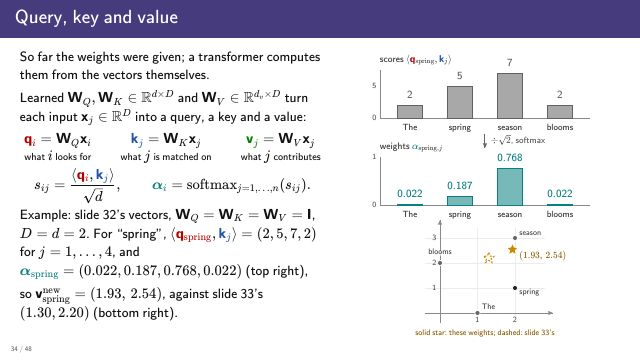
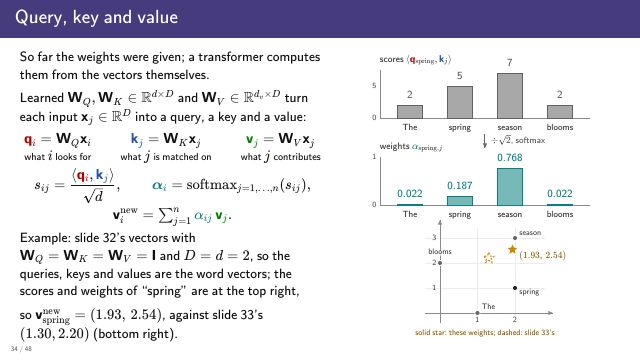
EPL slides: transformers deck updated (CBOW gradients as negative gradients in two cases, SGNS loss with ln(1 - sigma), PMI as the pair's term in the mutual information, the attention output line)

Changed region(s): [[0.0312, 0.5806, 0.5, 0.9472]]

diff --git a/docs/teaching/epl/slides/01-6-transformers/index.html b/docs/teaching/epl/slides/01-6-transformers/index.html
@@ -416,33 +416,26 @@ ul.plain li { margin: 0 0 6px; }
 <!-- 18 -->
 <section class="dense">
   <h2>Gradients of the CBOW loss</h2>
-  <column style="flex:1.3 1 0">
+  <column>
     <p class="opener">Training fits every vector by maximum likelihood, one blank at a time, with gradients from the chain rule.</p>
     <p style="margin-bottom:6px">For a blank with hidden word $w^*$, scores $z_w=\langle\bu_w,\bh\rangle$ and their softmax $p(w\mid\text{context})$ over $\cV$:</p>
     \[\cL=-\ln p(w^*\mid\text{context})=-z_{w^*}+\ln\sum_{w'\in\cV}e^{z_{w'}}.\]
-    <div pause data-fragment-index="1">
-      <p style="margin-bottom:6px">Its derivative with respect to a score is the error (Ch. 6), with $I(w=w^*)=1$ only for the hidden word:</p>
-      \[\begin{aligned}\frac{\partial\cL}{\partial z_w}&=-I(w=w^*)+\frac{e^{z_w}}{\sum_{w'}e^{z_{w'}}}\\&=\htmlClass{hl-err}{p(w\mid\text{context})-I(w=w^*)}.\end{aligned}\]
-    </div>
-    <div pause data-fragment-index="2">
-      <p style="margin-bottom:6px">Since $\partial z_w/\partial\bu_w=\bh$, the gradient is error times input:</p>
-      \[\nabla_{\bu_w}\cL=\big(p(w\mid\text{context})-I(w=w^*)\big)\,\bh.\]
-    </div>
-  </column>
-  <column>
-    <block title="Slide 16's blank, hidden word oranges">
-      <p>$\bh=(0.375,\,0.325,\,0.225)$; $p=0.541$ for oranges, $0.459$ for laptops; $\cL=-\ln0.541=0.614$.</p>
-      <p pause data-fragment-index="1">Errors: $0.541-1=-0.459$ for oranges, $0.459$ for laptops.</p>
-      <div pause data-fragment-index="2">
-        <p style="margin-bottom:4px">Output-vector gradients:</p>
-        \[\begin{aligned}\nabla_{\bu_{\text{oranges}}}\cL&=-0.459\,\bh\\&=(-0.172,\,-0.149,\,-0.103),\\\nabla_{\bu_{\text{laptops}}}\cL&=0.459\,\bh\\&=(0.172,\,0.149,\,0.103).\end{aligned}\]
+    <p>To make $\cL$ small, we want the hidden word's score $z_{w^*}$ large and the sum $\sum_{w'}e^{z_{w'}}$ small.</p>
+    <p pause data-fragment-index="1" style="margin-bottom:6px">The derivative of $\cL$ with respect to a score is the error (Ch. 6), and $\partial z_w/\partial\bu_w=\bh$, so:</p>
+    <div style="display:flex;justify-content:space-evenly;align-items:center">
+      <div pause data-fragment-index="1">
+        \[\frac{\partial\cL}{\partial z_w}=\htmlClass{hl-err}{\begin{cases}p(w\mid\text{context})-1,&w=w^*,\\p(w\mid\text{context}),&w\neq w^*,\end{cases}}\]
       </div>
-    </block>
+      <div pause data-fragment-index="2">
+        \[-\nabla_{\bu_w}\cL=\begin{cases}\big(1-p(w\mid\text{context})\big)\,\bh,&w=w^*,\\-p(w\mid\text{context})\,\bh,&w\neq w^*.\end{cases}\]
+      </div>
+    </div>
+    <p pause data-fragment-index="2">Example: in slide 16's blank, hidden word oranges, $-\nabla_{\bu_{\text{oranges}}}\cL=0.459\,\bh$ and $-\nabla_{\bu_{\text{laptops}}}\cL=-0.459\,\bh$.</p>
   </column>
   <narration>
-    <say>Training fits the vectors by maximum likelihood, one blank at a time. The loss of a blank is the negative log of the probability the model gives the hidden word. Written out, it is minus the hidden word's score plus the log of the softmax denominator, a sum over the whole vocabulary. On the right is the store sentence's blank from the last slide: the hidden word is oranges, and the model gives it a little over half of its probability.</say>
-    <say>Now differentiate with respect to one score. The first term gives minus one, for the hidden word only; the second gives that word's softmax probability. Their sum, the predicted probability minus the indicator of the hidden word, is <point to="err">the error</point>, as in softmax regression. In the example, oranges has a negative error, since the model gave it less than certainty, and laptops a positive error of the same size.</say>
-    <say>Each score depends on its own output vector only through an inner product with h, so the gradient for an output vector is its error times h: error times input. In the example the two gradients point in opposite directions along h, so a step against them moves the output vector of oranges toward h and that of laptops away from it.</say>
+    <say>Training fits the vectors by maximum likelihood, one blank at a time. The loss of a blank is the negative log of the probability the model gives the hidden word. Written out, it is minus the hidden word's score plus the log of the softmax denominator, a sum over the whole vocabulary. To make the loss small, we want the hidden word's score large and that sum small. In the store sentence's blank from slide 16, the hidden word is oranges, and the model gives it probability 0.541.</say>
+    <say>Now differentiate with respect to one score. The first term gives minus one, for the hidden word only; the second gives that word's softmax probability. Their sum is <point to="err">the error</point>, as in softmax regression: the predicted probability minus one for the hidden word, and the predicted probability itself for every other word. In that blank, oranges has the error 0.541 minus 1, or minus 0.459, since the model gave it less than certainty, and laptops the positive error 0.459.</say>
+    <say>Each score depends on its own output vector only through an inner product with h, so the gradient for an output vector is its error times h: error times input. Its negative is the direction in which a gradient step moves the vector. In that blank, the negative gradient for oranges points along h and the one for laptops against it, so a step moves the output vector of oranges toward h and that of laptops away from it.</say>
   </narration>
 </section>
 
@@ -453,11 +446,11 @@ ul.plain li { margin: 0 0 6px; }
     <p class="opener">The context vectors are learned by the same gradient descent, through their average $\bh=\frac1m\sum_{j=1}^m\bc_{w_j}$.</p>
     <div pause data-fragment-index="1">
       <p style="margin-bottom:6px">$\bh$ enters every score $z_w=\langle\bu_w,\bh\rangle$:</p>
-      \[\begin{aligned}\nabla_{\bh}\cL&=\sum_{w\in\cV}\big(p(w\mid\text{context})-I(w=w^*)\big)\,\bu_w\\&=\sum_{w\in\cV}p(w\mid\text{context})\,\bu_w-\bu_{w^*}.\end{aligned}\]
+      \[\begin{aligned}-\nabla_{\bh}\cL&=-\sum_{w\in\cV}\frac{\partial\cL}{\partial z_w}\,\bu_w\\&=\bu_{w^*}-\sum_{w\in\cV}p(w\mid\text{context})\,\bu_w.\end{aligned}\]
     </div>
     <div pause data-fragment-index="2">
       <p style="margin-bottom:6px">Each context word's vector gets $1/m$ of it:</p>
-      \[\nabla_{\bc_{w_j}}\cL=\tfrac1m\nabla_{\bh}\cL=\tfrac1m\big(\textstyle\sum_wp(w\mid\text{context})\,\bu_w-\bu_{w^*}\big).\]
+      \[-\nabla_{\bc_{w_j}}\cL=-\tfrac1m\nabla_{\bh}\cL.\]
       <p>A step moves each $\bc_{w_j}$ toward $\bu_{w^*}$ and away from the probability-weighted average of the output vectors.</p>
     </div>
     <p pause data-fragment-index="3">A word's $\bc_w$ is updated in every blank where the word is in the context, so over the corpus it moves toward the output vectors of the words it tends to surround.</p>
@@ -466,18 +459,18 @@ ul.plain li { margin: 0 0 6px; }
     <block title="Slide 16's blank, hidden word oranges">
       <p>Errors $-0.459$ (oranges) and $0.459$ (laptops); $m=4$.</p>
       <div pause data-fragment-index="1">
-        \[\begin{aligned}\nabla_{\bh}\cL&=-0.459\,\bu_{\text{oranges}}+0.459\,\bu_{\text{laptops}}\\&=0.459\,(\bu_{\text{laptops}}-\bu_{\text{oranges}})\\&=(-0.275,\,-0.138,\,0.321).\end{aligned}\]
+        \[\begin{aligned}-\nabla_{\bh}\cL&=0.459\,\bu_{\text{oranges}}-0.459\,\bu_{\text{laptops}}\\&=0.459\,(\bu_{\text{oranges}}-\bu_{\text{laptops}})\\&=(0.275,\,0.138,\,-0.321).\end{aligned}\]
       </div>
       <div pause data-fragment-index="2">
         <p style="margin-bottom:4px">Each of the four context vectors (store, bought, from, grocery):</p>
-        \[\begin{aligned}\nabla_{\bc_{w_j}}\cL&=\tfrac14\nabla_{\bh}\cL\\&=(-0.069,\,-0.034,\,0.080).\end{aligned}\]
+        \[\begin{aligned}-\nabla_{\bc_{w_j}}\cL&=-\tfrac14\nabla_{\bh}\cL\\&=(0.069,\,0.034,\,-0.080).\end{aligned}\]
       </div>
     </block>
   </column>
   <narration>
     <say>The context vectors are learned by the same gradient descent as the output vectors. They reach the loss only through h, the average of the context words' vectors, so we first find the gradient for h and then share it out among them.</say>
-    <say>Unlike an output vector, h enters every score, so its gradient sums the error of each word times that word's output vector. Since the errors are the probabilities minus the indicator, this is the probability-weighted average of the output vectors minus the hidden word's output vector. With two candidate words, it is a multiple of the difference between the output vectors of laptops and oranges.</say>
-    <say>Each context word's vector contributes one m-th of h, so it gets one m-th of h's gradient; in the example, each of the four context vectors gets a quarter. A step against this gradient moves every context vector toward the hidden word's output vector and away from the probability-weighted average of all the output vectors.</say>
+    <say>Unlike an output vector, h enters every score, so its gradient sums the error of each word times that word's output vector. Since the error is the probability minus one for the hidden word and the probability itself for every other word, the negative gradient is the hidden word's output vector minus the probability-weighted average of the output vectors. With two candidate words, it is a multiple of the difference between the output vectors of oranges and laptops.</say>
+    <say>Each context word's vector contributes one m-th of h, so it gets one m-th of h's gradient; in the example, each of the four context vectors gets a quarter. A step along the negative gradient moves every context vector toward the hidden word's output vector and away from the probability-weighted average of all the output vectors.</say>
     <say>This is how a context vector is learned. A word's context vector changes in every blank where the word appears around the hidden word, each time a little toward that hidden word's output vector. Over the corpus, it takes in the words it tends to surround, the company it keeps.</say>
   </narration>
 </section>
@@ -567,7 +560,7 @@ ul.plain li { margin: 0 0 6px; }
     <p>with $\sigma$ the sigmoid (Ch. 6) and $\bc_c$ the context vector of $c$.</p>
     <div pause>
       <p style="margin-bottom:6px">The loss of a real pair with random contexts $c_1,\dots,c_k$:</p>
-      \[-\ln\sigma(\langle\bu_w,\bc_c\rangle)-\sum_{i=1}^k\ln\sigma(-\langle\bu_w,\bc_{c_i}\rangle).\]
+      \[-\ln\sigma(\langle\bu_w,\bc_c\rangle)-\sum_{i=1}^k\ln\big(1-\sigma(\langle\bu_w,\bc_{c_i}\rangle)\big).\]
     </div>
   </column>
   <fig name="sgns"></fig>
@@ -582,25 +575,25 @@ ul.plain li { margin: 0 0 6px; }
   <h2>Pointwise mutual information and the SGNS optimum</h2>
   <column>
     <p class="opener">Levy and Goldberg (NIPS 2014) worked out what the fitted SGNS vectors converge to.</p>
-    <p style="margin-bottom:6px">With enough coordinates to fit every pair, the SGNS loss is minimized by setting $\langle\bu_w,\bc_c\rangle=\PMI(w,c)-\ln k$ for every pair $(w,c)$, where</p>
+    <p style="margin-bottom:6px">With enough coordinates to fit every pair, the SGNS loss is minimized by setting $\langle\bu_w,\bc_c\rangle=\PMI(w,c)-\ln k$ for every pair $(w,c)$, where PMI, the pointwise mutual information, is</p>
     \[\htmlClass{hl-pmi}{\PMI(w,c)=\ln\frac{p(w,c)}{p(w)\,p(c)}},\]
     <p>$p(w,c)$ is the fraction of all (word, context) pairs, counted within the window over the whole corpus, that are $(w,c)$, and $p(w)$, $p(c)$ are its marginals.</p>
     <p pause>Example: $p(w,c)=0.02$, $p(w)=0.1$, $p(c)=0.05$ give $\PMI(w,c)=\ln4$.</p>
-    <alertblock pause title="Embeddings store pointwise mutual information" class="small">$\langle\bu_w,\bc_c\rangle$ is fit to $\PMI(w,c)-\ln k$; averaged over pairs, $\PMI$ is the mutual information $I(W;C)$ of Sec. 1.4.</alertblock>
+    <alertblock pause title="Embeddings store pointwise mutual information" class="small">$\langle\bu_w,\bc_c\rangle$ is fit to $\PMI(w,c)-\ln k$; $\PMI(w,c)$ is the term of the pair $(w,c)$ in the mutual information of Sec. 1.4, $\sum_{w,c}p(w,c)\,\PMI(w,c)$.</alertblock>
   </column>
   <drawer>
     <p>A word $w$ occurs with context $c$ with probability $p(w,c)$, and each occurrence of $w$ draws $k$ random contexts from $p(c)$. Per pair of the text, the expected objective for $(w,c)$, with $x=\langle\bu_w,\bc_c\rangle$, is</p>
-    \[\ell(x)=p(w,c)\ln\sigma(x)+k\,p(w)\,p(c)\ln\sigma(-x).\]
-    <p class="dk1">With $\frac{d}{dx}\ln\sigma(x)=\sigma(-x)$, setting $\ell'(x)=0$ gives</p>
-    \[\htmlClass{dk1}{p(w,c)\,\sigma(-x)=k\,p(w)\,p(c)\,\sigma(x).}\]
-    <p class="dk2">Since $\sigma(x)/\sigma(-x)=e^x$,</p>
+    \[\ell(x)=p(w,c)\ln\sigma(x)+k\,p(w)\,p(c)\ln\big(1-\sigma(x)\big).\]
+    <p class="dk1">With $\frac{d}{dx}\ln\sigma(x)=1-\sigma(x)$ and $\frac{d}{dx}\ln\big(1-\sigma(x)\big)=-\sigma(x)$, setting $\ell'(x)=0$ gives</p>
+    \[\htmlClass{dk1}{p(w,c)\,\big(1-\sigma(x)\big)=k\,p(w)\,p(c)\,\sigma(x).}\]
+    <p class="dk2">Since $\sigma(x)/\big(1-\sigma(x)\big)=e^x$,</p>
     \[\htmlClass{dk2}{x=\ln\frac{p(w,c)}{k\,p(w)\,p(c)}=\PMI(w,c)-\ln k.}\]
     <p>This needs each inner product to be free to take its own value, which holds when the vectors have enough coordinates (Levy and Goldberg, Sec. 3.1). With fewer, the fit is a weighted low-rank approximation of this matrix.</p>
   </drawer>
   <narration>
     <say>What does this fit converge to? Levy and Goldberg showed that, when the vectors have enough coordinates to fit every pair exactly, the best inner product for each pair is its <point to="pmi">pointwise mutual information</point>, shifted down by the log of k. Pointwise mutual information compares how often the word and the context occur together with how often they would if they were independent. Together means within the window: every pair of a word and a context word in its window, counted over the whole corpus.</say>
     <say>In the example, the joint probability is larger than the product of the two marginals, so the pair occurs more often than chance would predict and its pointwise mutual information is positive.</say>
-    <say>So the embeddings are a compressed table of pointwise mutual information. Averaged over pairs, pointwise mutual information is the mutual information between a word and its context, from Section 1.4. Words with similar rows in this table, that is, similar company, get similar vectors. The theorem assumes a perfect fit; the next slide checks it on a real text.</say>
+    <say>So the embeddings are a compressed table of pointwise mutual information. Each entry is one pair's term in the mutual information between a word and its context, from Section 1.4: the mutual information is the average of the entries, each weighted by how often its pair occurs. Words with similar rows in this table, that is, similar company, get similar vectors. The theorem assumes a perfect fit; the next slide checks it on a real text.</say>
   </narration>
 </section>
 
@@ -809,13 +802,14 @@ ul.plain li { margin: 0 0 6px; }
     <p class="opener">So far the weights were given; a transformer computes them from the vectors themselves.</p>
     <p style="margin-bottom:6px">Learned $\mW_Q,\mW_K\in\bbR^{d\times D}$ and $\mW_V\in\bbR^{d_v\times D}$ turn each input $\bx_j\in\bbR^D$ into a query, a key and a value:</p>
     \[\underset{\textsf{what $i$ looks for}}{\cq{\bq_i}=\mW_Q\bx_i}\qquad\underset{\textsf{what $j$ is matched on}}{\ck{\bk_j}=\mW_K\bx_j}\qquad\underset{\textsf{what $j$ contributes}}{\cv{\bv_j}=\mW_V\bx_j}\]
-    \[\htmlClass{hl-s}{s_{ij}=\frac{\langle\cq{\bq_i},\ck{\bk_j}\rangle}{\sqrt d}},\qquad\cat{\balpha_i}=\softmax_{j=1,\dots,n}(s_{ij}).\]
-    <p pause="st=1">Example: slide 32's vectors, $\mW_Q=\mW_K=\mW_V=\mI$, $D=d=2$. For “spring”, $\langle\cq{\bq_{\text{spring}}},\ck{\bk_j}\rangle=(2,5,7,2)$ for $j=1,\dots,4$, and $\cat{\balpha_{\text{spring}}}=(0.022,0.187,0.768,0.022)$ (top right),</p>
+    \[\htmlClass{hl-s}{s_{ij}=\frac{\langle\cq{\bq_i},\ck{\bk_j}\rangle}{\sqrt d}},\qquad\cat{\balpha_i}=\softmax_{j=1,\dots,n}(s_{ij}),\]
+    \[\bv_i^{\text{new}}=\textstyle\sum_{j=1}^n\cat{\alpha_{ij}}\,\cv{\bv_j}.\]
+    <p pause="st=1">Example: slide 32's vectors with $\mW_Q=\mW_K=\mW_V=\mI$ and $D=d=2$, so the queries, keys and values are the word vectors; the scores and weights of “spring” are at the top right,</p>
     <p pause="st=2">so $\bv^{\text{new}}_{\text{spring}}=(1.93,\,2.54)$, against slide 33's $(1.30,2.20)$ (bottom right).</p>
   </column>
   <fig name="qkv" init="st=0"></fig>
   <narration>
-    <say>Where do the weights come from? Each position starts from an input vector. Three learned matrices turn it into a query, which says what the position is looking for, a key, which says what it offers to be matched on, and a value, which is what it contributes to the average when it is matched. These roles are a reading of a soft lookup: the query is matched against every key, and the values of the matches are averaged. Training only fits the three matrices to lower the loss, so a given head need not use them this way. <point to="s">The score</point> of position j for position i is the inner product of i's query with j's key, divided by the square root of the key length, and softmax over the positions turns each row of scores into weights.</say>
+    <say>Where do the weights come from? Each position starts from an input vector. Three learned matrices turn it into a query, which says what the position is looking for, a key, which says what it offers to be matched on, and a value, which is what it contributes to the average when it is matched. These roles are a reading of a soft lookup: the query is matched against every key, and the values of the matches are averaged. Training only fits the three matrices to lower the loss, so a given head need not use them this way. <point to="s">The score</point> of position j for position i is the inner product of i's query with j's key, divided by the square root of the key length, and softmax over the positions turns each row of scores into weights. The new vector of position i is the average of the values, with these weights.</say>
     <say>To see the computation, take the season sentence with all three matrices equal to the identity, so queries, keys and values are the word vectors themselves. The scores for spring, at the top of the figure, are its inner products with the four vectors, largest for season. Softmax turns them into the weights below them, produced by the model rather than given.</say>
     <say>The weighted average of the values is the new vector, the solid star at the bottom. It lies closer to season than the dashed star from the given weights, because the softmax put more weight on season. In a trained model the three matrices are learned by gradient descent, so the model learns what to attend to.</say>
   </narration>
